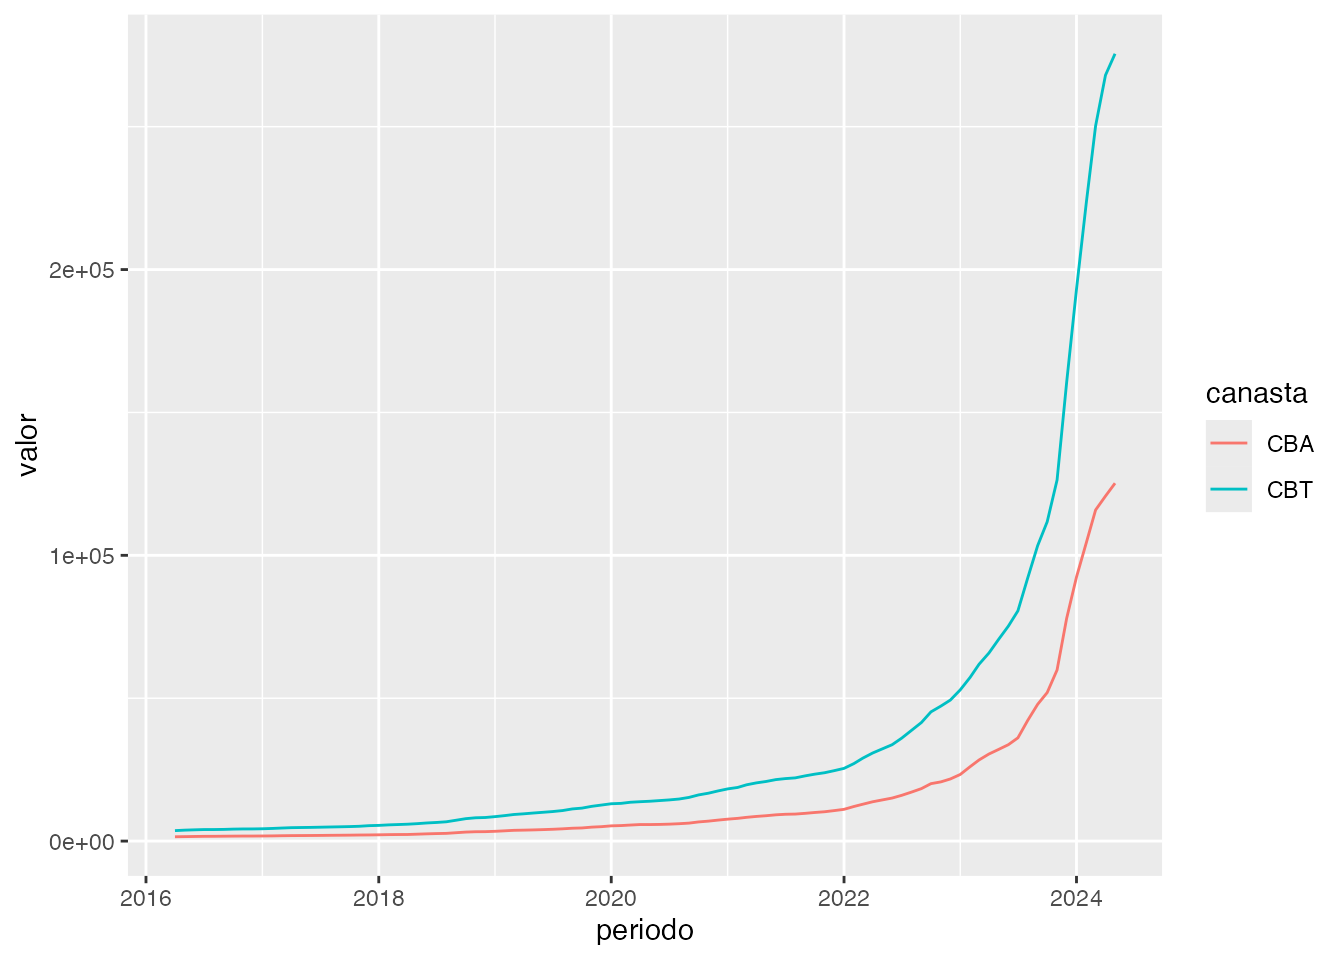
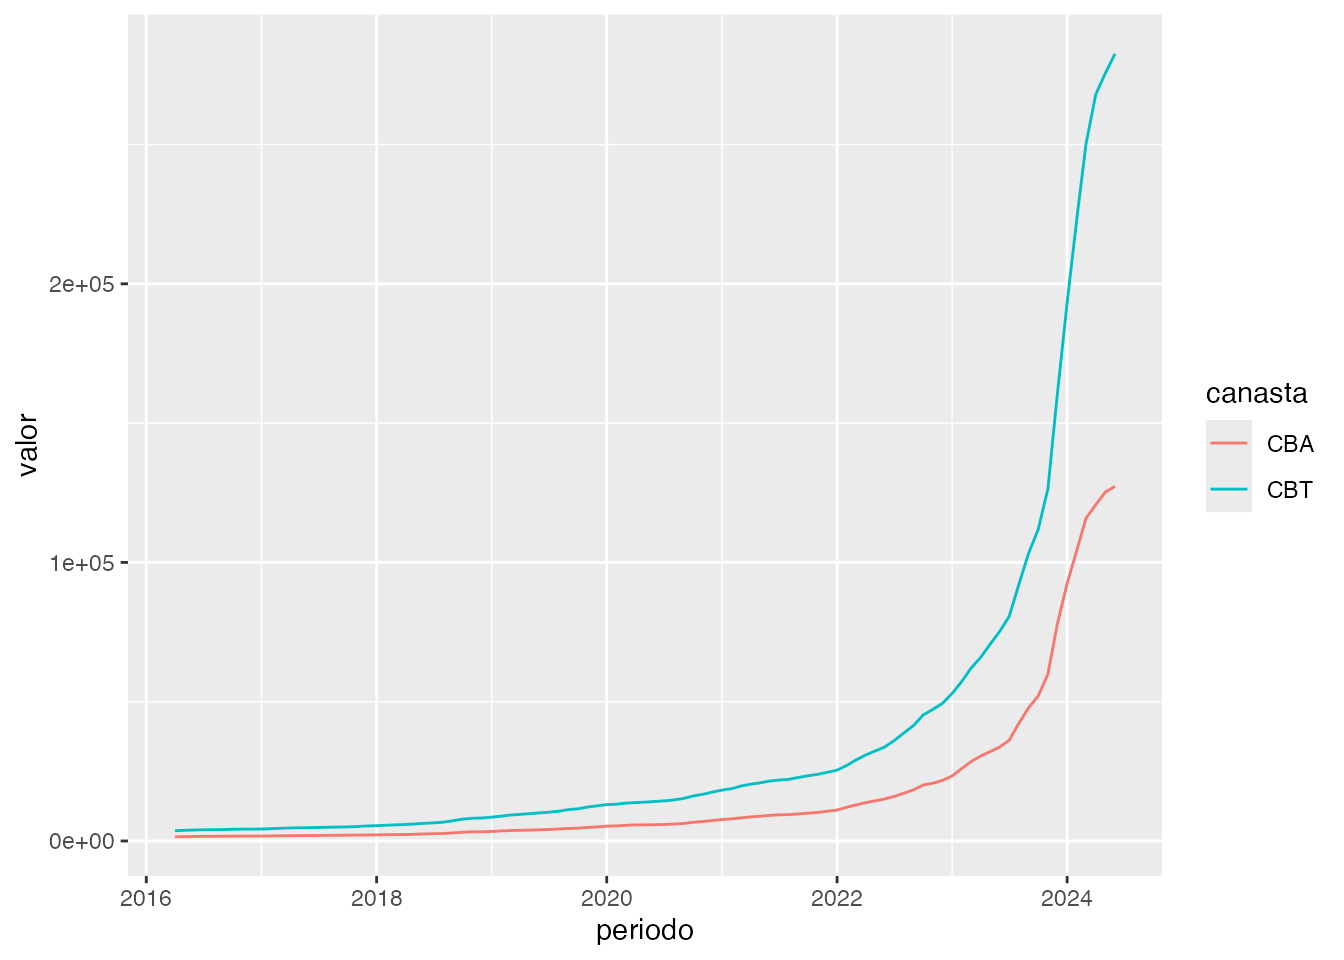
update site

diff --git a/docs/articles/eph.html b/docs/articles/eph.html
@@ -46,7 +46,7 @@
       </button>
       <span class="navbar-brand">
         <a class="navbar-link" href="../index.html">eph</a>
-        <span class="version label label-default" data-toggle="tooltip" data-placement="bottom" title="">1.0.1</span>
+        <span class="version label label-default" data-toggle="tooltip" data-placement="bottom" title="">1.0.2</span>
       </span>
     </div>
 
@@ -100,7 +100,7 @@
 Kozlowski, Pablo Tiscornia, Guido Weksler, Germán Rosati, Natsumi
 Shokida y Carolina Pradier</h4>
             
-            <h4 data-toc-skip class="date">2024-06-19</h4>
+            <h4 data-toc-skip class="date">2024-08-06</h4>
       
       <small class="dont-index">Código: <a href="https://github.com/ropensci/eph/blob/HEAD/vignettes/eph.Rmd" class="external-link"><code>vignettes/eph.Rmd</code></a></small>
       <div class="hidden name"><code>eph.Rmd</code></div>
@@ -338,11 +338,11 @@ variables al mismo tiempo que se levantan las bases:</p>
 <span><span class="co">#&gt; <span style="color: #949494;"># A tibble: 5 × 5</span></span></span>
 <span><span class="co">#&gt;    ANO4 TRIMESTRE PONDERA ESTADO CAT_OCUP</span></span>
 <span><span class="co">#&gt;   <span style="color: #949494; font-style: italic;">&lt;int&gt;</span>     <span style="color: #949494; font-style: italic;">&lt;int&gt;</span>   <span style="color: #949494; font-style: italic;">&lt;int&gt;</span>  <span style="color: #949494; font-style: italic;">&lt;int&gt;</span>    <span style="color: #949494; font-style: italic;">&lt;int&gt;</span></span></span>
-<span><span class="co">#&gt; <span style="color: #BCBCBC;">1</span>  <span style="text-decoration: underline;">2</span>018         4     123      2        3</span></span>
-<span><span class="co">#&gt; <span style="color: #BCBCBC;">2</span>  <span style="text-decoration: underline;">2</span>019         1     161      3        0</span></span>
-<span><span class="co">#&gt; <span style="color: #BCBCBC;">3</span>  <span style="text-decoration: underline;">2</span>019         2     518      1        3</span></span>
-<span><span class="co">#&gt; <span style="color: #BCBCBC;">4</span>  <span style="text-decoration: underline;">2</span>017         2     655      3        0</span></span>
-<span><span class="co">#&gt; <span style="color: #BCBCBC;">5</span>  <span style="text-decoration: underline;">2</span>017         3     250      1        3</span></span></code></pre></div>
+<span><span class="co">#&gt; <span style="color: #BCBCBC;">1</span>  <span style="text-decoration: underline;">2</span>019         2      33      4        0</span></span>
+<span><span class="co">#&gt; <span style="color: #BCBCBC;">2</span>  <span style="text-decoration: underline;">2</span>017         1     215      3        0</span></span>
+<span><span class="co">#&gt; <span style="color: #BCBCBC;">3</span>  <span style="text-decoration: underline;">2</span>018         3    <span style="text-decoration: underline;">1</span>491      3        0</span></span>
+<span><span class="co">#&gt; <span style="color: #BCBCBC;">4</span>  <span style="text-decoration: underline;">2</span>018         1     261      3        0</span></span>
+<span><span class="co">#&gt; <span style="color: #BCBCBC;">5</span>  <span style="text-decoration: underline;">2</span>017         1     290      3        0</span></span></code></pre></div>
 <p>Con estos datos podemos crear por ejemplo la serie de
 asalarización</p>
 <p><span class="math inline">\(SO_{t} = \frac{\sum_{i=1}^n
@@ -389,7 +389,7 @@ dos datasets de la CABA y sus respectivos valores de canastas.</p>
 <div class="sourceCode" id="cb15"><pre class="downlit sourceCode r">
 <code class="sourceCode R"><span><span class="va">lineas</span> <span class="op">&lt;-</span> <span class="fu"><a href="../reference/get_poverty_lines.html">get_poverty_lines</a></span><span class="op">(</span><span class="op">)</span></span>
 <span><span class="va">lineas</span></span>
-<span><span class="co">#&gt; <span style="color: #949494;"># A tibble: 98 × 4</span></span></span>
+<span><span class="co">#&gt; <span style="color: #949494;"># A tibble: 99 × 4</span></span></span>
 <span><span class="co">#&gt;    periodo               CBA   ICE   CBT</span></span>
 <span><span class="co">#&gt;    <span style="color: #949494; font-style: italic;">&lt;dttm&gt;</span>              <span style="color: #949494; font-style: italic;">&lt;dbl&gt;</span> <span style="color: #949494; font-style: italic;">&lt;dbl&gt;</span> <span style="color: #949494; font-style: italic;">&lt;dbl&gt;</span></span></span>
 <span><span class="co">#&gt; <span style="color: #BCBCBC;"> 1</span> 2016-04-01 <span style="color: #949494;">00:00:00</span> <span style="text-decoration: underline;">1</span>515.  2.42 <span style="text-decoration: underline;">3</span>664.</span></span>
@@ -402,7 +402,7 @@ dos datasets de la CABA y sus respectivos valores de canastas.</p>
 <span><span class="co">#&gt; <span style="color: #BCBCBC;"> 8</span> 2016-11-01 <span style="color: #949494;">00:00:00</span> <span style="text-decoration: underline;">1</span>763.  2.41 <span style="text-decoration: underline;">4</span>248.</span></span>
 <span><span class="co">#&gt; <span style="color: #BCBCBC;"> 9</span> 2016-12-01 <span style="color: #949494;">00:00:00</span> <span style="text-decoration: underline;">1</span>767.  2.41 <span style="text-decoration: underline;">4</span>258.</span></span>
 <span><span class="co">#&gt; <span style="color: #BCBCBC;">10</span> 2017-01-01 <span style="color: #949494;">00:00:00</span> <span style="text-decoration: underline;">1</span>789.  2.41 <span style="text-decoration: underline;">4</span>312.</span></span>
-<span><span class="co">#&gt; <span style="color: #949494;"># ℹ 88 more rows</span></span></span></code></pre></div>
+<span><span class="co">#&gt; <span style="color: #949494;"># ℹ 89 more rows</span></span></span></code></pre></div>
 <p>Esta función descarga los valores de las canastas alimentaria, básica
 (CBA y CBT) y la inversa del coeficiente de Engels… perdón, Engel (ICE)
 de <a href="https://www.indec.gob.ar/indec/web/Nivel4-Tema-4-43-149" class="external-link">la
@@ -480,16 +480,16 @@ la metodología de línea:</p>
 <span><span class="co">#&gt; <span style="color: #949494;"># A tibble: 10 × 7</span></span></span>
 <span><span class="co">#&gt;    CODUSU                  ITF region adequi_hogar CBA_hogar CBT_hogar situacion</span></span>
 <span><span class="co">#&gt;    <span style="color: #949494; font-style: italic;">&lt;fct&gt;</span>                 <span style="color: #949494; font-style: italic;">&lt;int&gt;</span> <span style="color: #949494; font-style: italic;">&lt;chr&gt;</span>         <span style="color: #949494; font-style: italic;">&lt;dbl&gt;</span>     <span style="color: #949494; font-style: italic;">&lt;dbl&gt;</span>     <span style="color: #949494; font-style: italic;">&lt;dbl&gt;</span> <span style="color: #949494; font-style: italic;">&lt;chr&gt;</span>    </span></span>
-<span><span class="co">#&gt; <span style="color: #BCBCBC;"> 1</span> TQRMNORYQHKMLNCDEFMD… <span style="text-decoration: underline;">11</span>400 Pampe…         0.67     <span style="text-decoration: underline;">1</span>170.     <span style="text-decoration: underline;">2</span>820. no_pobre </span></span>
-<span><span class="co">#&gt; <span style="color: #BCBCBC;"> 2</span> TQRMNOPRSHKOKMCDEGKD… <span style="text-decoration: underline;">14</span>480 Pampe…         0.76     <span style="text-decoration: underline;">1</span>327.     <span style="text-decoration: underline;">3</span>199. no_pobre </span></span>
-<span><span class="co">#&gt; <span style="color: #BCBCBC;"> 3</span> TQRMNORPXHKKLSCDEIKA…     0 Pampe…         0.51      855.     <span style="text-decoration: underline;">2</span>057. <span style="color: #BB0000;">NA</span>       </span></span>
-<span><span class="co">#&gt; <span style="color: #BCBCBC;"> 4</span> TQRMNOPQQHJMLRCDEFKI…     0 Pampe…         1.02     <span style="text-decoration: underline;">1</span>781.     <span style="text-decoration: underline;">4</span>293. <span style="color: #BB0000;">NA</span>       </span></span>
-<span><span class="co">#&gt; <span style="color: #BCBCBC;"> 5</span> TQRMNOQVUHMOKRCDEGJB… <span style="text-decoration: underline;">13</span>200 Pampe…         0.69     <span style="text-decoration: underline;">1</span>205.     <span style="text-decoration: underline;">2</span>904. no_pobre </span></span>
-<span><span class="co">#&gt; <span style="color: #BCBCBC;"> 6</span> TQRMNOPTUHJMTRCDEIJA… <span style="text-decoration: underline;">42</span>000 GBA            2.02     <span style="text-decoration: underline;">3</span>402.     <span style="text-decoration: underline;">8</span>187. no_pobre </span></span>
-<span><span class="co">#&gt; <span style="color: #BCBCBC;"> 7</span> TQSMNOPPVHMNROCDEIJA… <span style="text-decoration: underline;">11</span>200 GBA            1        <span style="text-decoration: underline;">1</span>756.     <span style="text-decoration: underline;">4</span>232. no_pobre </span></span>
-<span><span class="co">#&gt; <span style="color: #BCBCBC;"> 8</span> TQRMNORRQHMMKUCDEFMD…     0 Pampe…         0.69     <span style="text-decoration: underline;">1</span>157.     <span style="text-decoration: underline;">2</span>783. <span style="color: #BB0000;">NA</span>       </span></span>
-<span><span class="co">#&gt; <span style="color: #BCBCBC;"> 9</span> TQRMNORXUHJOKNCDEGPD…  <span style="text-decoration: underline;">9</span>600 Noroe…         0.76     <span style="text-decoration: underline;">1</span>159.     <span style="text-decoration: underline;">2</span>593. no_pobre </span></span>
-<span><span class="co">#&gt; <span style="color: #BCBCBC;">10</span> TQRMNOSTUHKMKPCDEGPD…  <span style="text-decoration: underline;">8</span>500 Noroe…         0.9      <span style="text-decoration: underline;">1</span>373.     <span style="text-decoration: underline;">3</span>071. no_pobre</span></span></code></pre></div>
+<span><span class="co">#&gt; <span style="color: #BCBCBC;"> 1</span> TQRMNOQPPHJLKRCDEHMH… <span style="text-decoration: underline;">26</span>000 Cuyo           0.77     <span style="text-decoration: underline;">1</span>162.     <span style="text-decoration: underline;">2</span>982. no_pobre </span></span>
+<span><span class="co">#&gt; <span style="color: #BCBCBC;"> 2</span> TQRMNOQXXHJMLOCDEHIB… <span style="text-decoration: underline;">35</span>500 Noroe…         0.83     <span style="text-decoration: underline;">1</span>222.     <span style="text-decoration: underline;">2</span>733. no_pobre </span></span>
+<span><span class="co">#&gt; <span style="color: #BCBCBC;"> 3</span> TQRMNORWTHKLLMCDEIKA… <span style="text-decoration: underline;">92</span>200 Pampe…         0.76     <span style="text-decoration: underline;">1</span>274.     <span style="text-decoration: underline;">3</span>066. no_pobre </span></span>
+<span><span class="co">#&gt; <span style="color: #BCBCBC;"> 4</span> TQRMNOQRWHLMKUCDEFMD…     0 Pampe…         0.76     <span style="text-decoration: underline;">1</span>274.     <span style="text-decoration: underline;">3</span>066. <span style="color: #BB0000;">NA</span>       </span></span>
+<span><span class="co">#&gt; <span style="color: #BCBCBC;"> 5</span> TQRMNOQWQHKLLLCDEIJA… <span style="text-decoration: underline;">39</span>800 GBA            0.76     <span style="text-decoration: underline;">1</span>335.     <span style="text-decoration: underline;">3</span>217. no_pobre </span></span>
+<span><span class="co">#&gt; <span style="color: #BCBCBC;"> 6</span> TQRMNORSPHKMKSCDEIHJ… <span style="text-decoration: underline;">21</span>000 Patag…         1        <span style="text-decoration: underline;">1</span>735.     <span style="text-decoration: underline;">4</span>742. no_pobre </span></span>
+<span><span class="co">#&gt; <span style="color: #BCBCBC;"> 7</span> TQRMNORSPHMOQOCDEIJA…  <span style="text-decoration: underline;">1</span>200 GBA            0.76     <span style="text-decoration: underline;">1</span>335.     <span style="text-decoration: underline;">3</span>217. indigente</span></span>
+<span><span class="co">#&gt; <span style="color: #BCBCBC;"> 8</span> TQRMNOQXWHLMLOCDEGIB… <span style="text-decoration: underline;">16</span>400 Nores…         1.83     <span style="text-decoration: underline;">2</span>870.     <span style="text-decoration: underline;">6</span>476. no_pobre </span></span>
+<span><span class="co">#&gt; <span style="color: #BCBCBC;"> 9</span> TQRMNOPQPHKOKSCDEFNF… <span style="text-decoration: underline;">25</span>000 Nores…         0.37      580.     <span style="text-decoration: underline;">1</span>309. no_pobre </span></span>
+<span><span class="co">#&gt; <span style="color: #BCBCBC;">10</span> TQRMNORXSHKOLOCDEHIB… <span style="text-decoration: underline;">21</span>640 Noroe…         0.67     <span style="text-decoration: underline;">1</span>022.     <span style="text-decoration: underline;">2</span>286. no_pobre</span></span></code></pre></div>
 </div>
 </div>
 <div class="footnotes footnotes-end-of-document">

diff --git a/docs/news/index.html b/docs/news/index.html
@@ -23,7 +23,7 @@
       </button>
       <span class="navbar-brand">
         <a class="navbar-link" href="../index.html">eph</a>
-        <span class="version label label-default" data-toggle="tooltip" data-placement="bottom" title="">1.0.0</span>
+        <span class="version label label-default" data-toggle="tooltip" data-placement="bottom" title="">1.0.2</span>
       </span>
     </div>
 
@@ -48,7 +48,7 @@
   <a href="../news/index.html">Registro de cambios</a>
 </li>
       </ul><ul class="nav navbar-nav navbar-right"><li>
-  <a href="https://github.com/holatam/eph/" class="external-link">
+  <a href="https://github.com/ropensci/eph/" class="external-link">
     <span class="fab fa-github fa-lg"></span>
      
   </a>
@@ -63,11 +63,19 @@
   <div class="col-md-9 contents">
     <div class="page-header">
       <h1 data-toc-skip>Changelog <small></small></h1>
-      <small>Código: <a href="https://github.com/holatam/eph/blob/HEAD/NEWS.md" class="external-link"><code>NEWS.md</code></a></small>
+      <small>Código: <a href="https://github.com/ropensci/eph/blob/HEAD/NEWS.md" class="external-link"><code>NEWS.md</code></a></small>
     </div>
 
     <div class="section level2">
-<h2 class="page-header" data-toc-text="1.0.0" id="eph-100">eph 1.0.0<a class="anchor" aria-label="anchor" href="#eph-100"></a></h2>
+<h2 class="page-header" data-toc-text="1.0.2" id="eph-102">eph 1.0.2<small>2024-06-23</small><a class="anchor" aria-label="anchor" href="#eph-102"></a></h2>
+<ul><li>better adjusted to CRAN’s policy ‘Packages which use Internet resources should fail gracefully with an informative message if the resource is not available or has changed (and not give a check warning nor error).’</li>
+</ul></div>
+    <div class="section level2">
+<h2 class="page-header" data-toc-text="1.0.1" id="eph-101">eph 1.0.1<small>2024-06-19</small><a class="anchor" aria-label="anchor" href="#eph-101"></a></h2>
+<ul><li>fixed organize_labels bug</li>
+</ul></div>
+    <div class="section level2">
+<h2 class="page-header" data-toc-text="1.0.0" id="eph-100">eph 1.0.0<small>2023-09-15</small><a class="anchor" aria-label="anchor" href="#eph-100"></a></h2>
 <ul><li>added new functions: get_total_urbano() and get_eahu() (as well as their auxiliar internal functions)</li>
 <li>improved documentation and site</li>
 <li>added contributing and codemeta.json files</li>

diff --git a/docs/reference/get_eahu.html b/docs/reference/get_eahu.html
@@ -23,7 +23,7 @@
       </button>
       <span class="navbar-brand">
         <a class="navbar-link" href="../index.html">eph</a>
-        <span class="version label label-default" data-toggle="tooltip" data-placement="bottom" title="">1.0.1</span>
+        <span class="version label label-default" data-toggle="tooltip" data-placement="bottom" title="">1.0.2</span>
       </span>
     </div>
 
@@ -107,11 +107,13 @@ el archivo y se graba en esa direccion. Si existe un archivo en ese path, se lee
 
     <div id="ref-examples">
     <h2>Examples</h2>
-    <div class="sourceCode"><pre class="sourceCode r"><code><span class="r-in"><span><span class="va">base_individual</span> <span class="op">&lt;-</span> <span class="fu">get_eahu</span><span class="op">(</span></span></span>
+    <div class="sourceCode"><pre class="sourceCode r"><code><span class="r-in"><span><span class="kw">if</span> <span class="op">(</span><span class="cn">FALSE</span><span class="op">)</span> <span class="op">{</span></span></span>
+<span class="r-in"><span><span class="va">base_individual</span> <span class="op">&lt;-</span> <span class="fu">get_eahu</span><span class="op">(</span></span></span>
 <span class="r-in"><span>  year <span class="op">=</span> <span class="fl">2010</span>,</span></span>
 <span class="r-in"><span>  type <span class="op">=</span> <span class="st">"individual"</span>,</span></span>
 <span class="r-in"><span>  vars <span class="op">=</span> <span class="fu"><a href="https://rdrr.io/r/base/c.html" class="external-link">c</a></span><span class="op">(</span><span class="st">"SUBDOMINIO"</span>, <span class="st">"PONDERA"</span>, <span class="st">"ESTADO"</span>, <span class="st">"CAT_OCUP"</span><span class="op">)</span></span></span>
 <span class="r-in"><span><span class="op">)</span></span></span>
+<span class="r-in"><span><span class="op">}</span></span></span>
 <span class="r-in"><span></span></span>
 </code></pre></div>
     </div>

diff --git a/docs/reference/get_total_urbano.html b/docs/reference/get_total_urbano.html
@@ -23,7 +23,7 @@
       </button>
       <span class="navbar-brand">
         <a class="navbar-link" href="../index.html">eph</a>
-        <span class="version label label-default" data-toggle="tooltip" data-placement="bottom" title="">1.0.1</span>
+        <span class="version label label-default" data-toggle="tooltip" data-placement="bottom" title="">1.0.2</span>
       </span>
     </div>
 
@@ -112,11 +112,13 @@ el archivo y se graba en esa direccion. Si existe un archivo en ese path, se lee
 
     <div id="ref-examples">
     <h2>Examples</h2>
-    <div class="sourceCode"><pre class="sourceCode r"><code><span class="r-in"><span><span class="va">base_individual</span> <span class="op">&lt;-</span> <span class="fu">get_total_urbano</span><span class="op">(</span></span></span>
+    <div class="sourceCode"><pre class="sourceCode r"><code><span class="r-in"><span><span class="kw">if</span> <span class="op">(</span><span class="cn">FALSE</span><span class="op">)</span> <span class="op">{</span></span></span>
+<span class="r-in"><span><span class="va">base_individual</span> <span class="op">&lt;-</span> <span class="fu">get_total_urbano</span><span class="op">(</span></span></span>
 <span class="r-in"><span>  year <span class="op">=</span> <span class="fl">2016</span>,</span></span>
 <span class="r-in"><span>  type <span class="op">=</span> <span class="st">"hogar"</span>,</span></span>
 <span class="r-in"><span>  vars <span class="op">=</span> <span class="fu"><a href="https://rdrr.io/r/base/c.html" class="external-link">c</a></span><span class="op">(</span><span class="st">"PONDERA"</span>, <span class="st">"IV1"</span>, <span class="st">"IV2"</span><span class="op">)</span></span></span>
 <span class="r-in"><span><span class="op">)</span></span></span>
+<span class="r-in"><span><span class="op">}</span></span></span>
 <span class="r-in"><span></span></span>
 </code></pre></div>
     </div>

diff --git a/docs/reference/centroides_aglomerados.html b/docs/reference/centroides_aglomerados.html
@@ -24,7 +24,7 @@ Basado en https://www.indec.gob.ar/indec/web/Nivel4-Tema-1-39-120"><meta propert
       </button>
       <span class="navbar-brand">
         <a class="navbar-link" href="../index.html">eph</a>
-        <span class="version label label-default" data-toggle="tooltip" data-placement="bottom" title="">1.0.1</span>
+        <span class="version label label-default" data-toggle="tooltip" data-placement="bottom" title="">1.0.2</span>
       </span>
     </div>
 

diff --git a/docs/reference/errores_muestrales.html b/docs/reference/errores_muestrales.html
@@ -26,7 +26,7 @@ https://www.indec.gob.ar/ftp/cuadros/menusuperior/eph/EPH_errores_muestreo.pdf">
       </button>
       <span class="navbar-brand">
         <a class="navbar-link" href="../index.html">eph</a>
-        <span class="version label label-default" data-toggle="tooltip" data-placement="bottom" title="">1.0.1</span>
+        <span class="version label label-default" data-toggle="tooltip" data-placement="bottom" title="">1.0.2</span>
       </span>
     </div>
 

diff --git a/docs/reference/organize_panels.html b/docs/reference/organize_panels.html
@@ -24,7 +24,7 @@ de especificar una serie consecutiva de bases, variables y el largo de la ventan
       </button>
       <span class="navbar-brand">
         <a class="navbar-link" href="../index.html">eph</a>
-        <span class="version label label-default" data-toggle="tooltip" data-placement="bottom" title="">1.0.1</span>
+        <span class="version label label-default" data-toggle="tooltip" data-placement="bottom" title="">1.0.2</span>
       </span>
     </div>
 

diff --git a/docs/reference/calculate_errors.html b/docs/reference/calculate_errors.html
@@ -26,7 +26,7 @@ correspondiente segun las tablas de error muestral de INDEC para EPH continua
       </button>
       <span class="navbar-brand">
         <a class="navbar-link" href="../index.html">eph</a>
-        <span class="version label label-default" data-toggle="tooltip" data-placement="bottom" title="">1.0.1</span>
+        <span class="version label label-default" data-toggle="tooltip" data-placement="bottom" title="">1.0.2</span>
       </span>
     </div>
 

diff --git a/docs/404.html b/docs/404.html
@@ -45,7 +45,7 @@
       </button>
       <span class="navbar-brand">
         <a class="navbar-link" href="https://rindec.github.io/eph/index.html">eph</a>
-        <span class="version label label-default" data-toggle="tooltip" data-placement="bottom" title="">1.0.1</span>
+        <span class="version label label-default" data-toggle="tooltip" data-placement="bottom" title="">1.0.2</span>
       </span>
     </div>
 

diff --git a/docs/articles/estimacion_pobreza.html b/docs/articles/estimacion_pobreza.html
@@ -46,7 +46,7 @@
       </button>
       <span class="navbar-brand">
         <a class="navbar-link" href="../index.html">eph</a>
-        <span class="version label label-default" data-toggle="tooltip" data-placement="bottom" title="">1.0.1</span>
+        <span class="version label label-default" data-toggle="tooltip" data-placement="bottom" title="">1.0.2</span>
       </span>
     </div>
 

diff --git a/docs/articles/index.html b/docs/articles/index.html
@@ -23,7 +23,7 @@
       </button>
       <span class="navbar-brand">
         <a class="navbar-link" href="../index.html">eph</a>
-        <span class="version label label-default" data-toggle="tooltip" data-placement="bottom" title="">1.0.1</span>
+        <span class="version label label-default" data-toggle="tooltip" data-placement="bottom" title="">1.0.2</span>
       </span>
     </div>
 

diff --git a/docs/reference/CNO.html b/docs/reference/CNO.html
@@ -23,7 +23,7 @@
       </button>
       <span class="navbar-brand">
         <a class="navbar-link" href="../index.html">eph</a>
-        <span class="version label label-default" data-toggle="tooltip" data-placement="bottom" title="">1.0.1</span>
+        <span class="version label label-default" data-toggle="tooltip" data-placement="bottom" title="">1.0.2</span>
       </span>
     </div>
 
